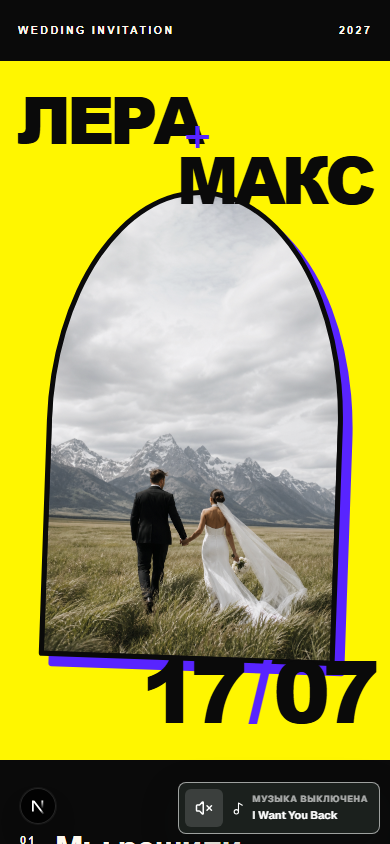
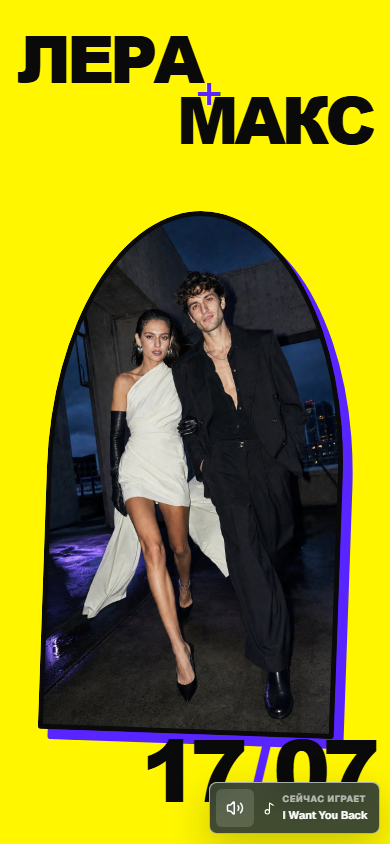
fix: Фиксы картинок

diff --git a/frontend/src/invitation-templates/electric/template.module.css b/frontend/src/invitation-templates/electric/template.module.css
@@ -21,13 +21,16 @@
 .photo {
   object-fit: cover;
 }
+.heroPhotoImage {
+  object-position: center 18%;
+}
 
 .loader {
   position: absolute;
   z-index: 20;
   inset: 0 0 auto;
   display: grid;
-  height: max(720px, 100svh);
+  height: 100svh;
   align-content: center;
   justify-items: center;
   gap: 18px;
@@ -94,26 +97,10 @@
 
 .hero {
   position: relative;
-  min-height: max(720px, 100svh);
+  height: 100svh;
+  min-height: 100svh;
   overflow: hidden;
   background: var(--electric-bg);
-}
-.masthead {
-  position: relative;
-  z-index: 3;
-  display: grid;
-  grid-template-columns: 1fr auto 1fr;
-  gap: 20px;
-  padding: 22px clamp(18px, 3vw, 44px);
-  background: var(--electric-ink);
-  color: var(--electric-surface);
-  font-size: 11px;
-  font-weight: 700;
-  letter-spacing: 0.2em;
-  text-transform: uppercase;
-}
-.masthead span:last-child {
-  text-align: right;
 }
 .heroNames {
   position: relative;
@@ -142,7 +129,7 @@
   top: 22%;
   bottom: 7%;
   left: 50%;
-  width: min(38vw, 500px);
+  width: min(38vw, 500px, 47.333svh);
   transform: translateX(-50%) rotate(2deg);
 }
 .heroPhotoMotion::after {
@@ -425,8 +412,8 @@
 
 .rsvpSection {
   display: grid;
-  grid-template-columns: minmax(260px, 0.7fr) minmax(0, 1.3fr);
-  gap: clamp(40px, 8vw, 120px);
+  grid-template-columns: minmax(320px, 0.85fr) minmax(440px, 1.15fr);
+  gap: clamp(40px, 6vw, 96px);
   padding: clamp(70px, 9vw, 130px) clamp(20px, 6vw, 92px);
   background: var(--electric-bg);
 }
@@ -507,6 +494,9 @@
   min-height: 620px;
   filter: grayscale(1);
 }
+.closingPhotoImage {
+  object-position: center top;
+}
 .closingCopy {
   display: flex;
   flex-direction: column;
@@ -534,7 +524,7 @@
   font-weight: 400;
 }
 
-@media (max-width: 900px) {
+@media (max-width: 1100px) {
   .rsvpSection {
     grid-template-columns: 1fr;
     gap: 48px;
@@ -549,14 +539,8 @@
 
 @media (max-width: 760px) {
   .hero {
-    min-height: min(760px, 100svh);
-    height: 760px;
-  }
-  .masthead {
-    grid-template-columns: 1fr auto;
-  }
-  .masthead span:last-child {
-    display: none;
+    height: 100svh;
+    min-height: 100svh;
   }
   .heroNames {
     grid-template-columns: 1fr;
@@ -664,12 +648,18 @@
     margin-top: 52px;
   }
   .programList li {
-    grid-template-columns: 82px minmax(0, 1fr);
-    gap: 14px;
+    grid-template-columns: clamp(88px, 25vw, 116px) minmax(0, 1fr);
+    gap: clamp(12px, 3vw, 20px);
     padding: 26px 0;
   }
   .programList time {
     font-size: clamp(30px, 9vw, 40px);
+    font-variant-numeric: tabular-nums;
+    line-height: 1;
+    white-space: nowrap;
+  }
+  .programList li > div {
+    min-width: 0;
   }
   .programList h3 {
     font-size: clamp(21px, 6vw, 28px);
@@ -730,10 +720,6 @@
 }
 
 @media (max-width: 340px) {
-  .masthead {
-    padding: 18px 14px;
-    font-size: 9px;
-  }
   .heroNames {
     padding-inline: 14px;
     font-size: 50px;
@@ -766,10 +752,6 @@
   }
   .programSection .sectionHeading h2 {
     font-size: 36px;
-  }
-  .programList li {
-    grid-template-columns: 72px minmax(0, 1fr);
-    gap: 12px;
   }
   .programList time {
     font-size: 28px;

diff --git a/frontend/src/invitation-templates/electric/template.tsx b/frontend/src/invitation-templates/electric/template.tsx
@@ -19,7 +19,6 @@ import {
   copyFromRight,
   dateReveal,
   heroSequence,
-  mastheadReveal,
   nameFromLeft,
   nameFromRight,
   photoMaskReveal,
@@ -80,11 +79,6 @@ function HeroSection({ coverImage, invite }: Readonly<{ coverImage: string; invi
 
   return (
     <motion.header animate="visible" className={styles.hero} initial="hidden" variants={heroSequence}>
-      <motion.div className={styles.masthead} variants={mastheadReveal}>
-        <span>Wedding invitation</span>
-        <span>{date.year}</span>
-        <span>{invite.city}</span>
-      </motion.div>
       <motion.div className={styles.heroNames} variants={heroSequence}>
         <motion.span variants={nameFromLeft}>{invite.bride}</motion.span>
         <motion.span className={styles.plus} variants={plusReveal}>+</motion.span>
@@ -94,7 +88,7 @@ function HeroSection({ coverImage, invite }: Readonly<{ coverImage: string; invi
         <motion.div className={styles.heroPhoto} variants={archPhotoReveal}>
           <Image
             alt="Фотография пары"
-            className={styles.photo}
+            className={`${styles.photo} ${styles.heroPhotoImage}`}
             fill
             loading="eager"
             sizes="(max-width: 720px) 78vw, 520px"
@@ -241,7 +235,7 @@ function ClosingSection({ invite, portraitImage }: Readonly<Pick<ElectricTemplat
       <motion.div className={styles.closingPhoto} variants={photoMaskReveal}>
         <Image
           alt="Свадебный портрет пары"
-          className={styles.photo}
+          className={`${styles.photo} ${styles.closingPhotoImage}`}
           fill
           sizes="(max-width: 760px) 100vw, 50vw"
           src={portraitImage}
